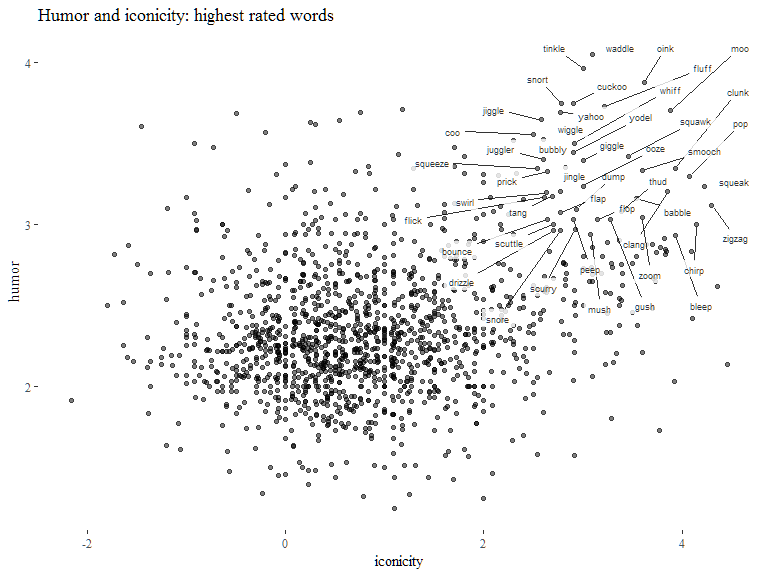
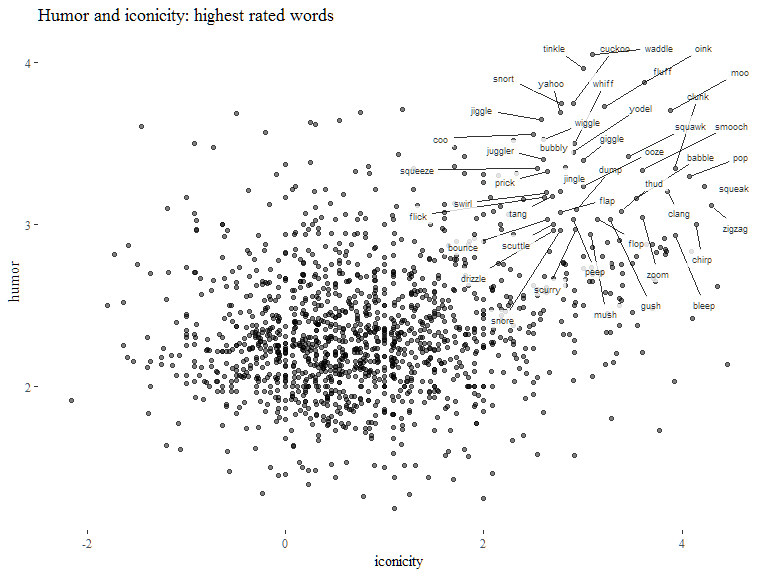
fiddle w/ knitr settings

diff --git a/playful_iconicity.md b/playful_iconicity.md
@@ -13,18 +13,76 @@ If there is indeed a link between iconicity and the subjective funnyness of word
 
 Outliers (words where ratings disagree most) help to discover other features at play. E.g. 'blonde' is in the top 10 percentile of funny words but only in the 2nd percentile of iconicity ratings. Probably related to a genre of jokes. On the other hand, some onomatopoeia are highly iconic but associated with negative rather than with funny events, e.g. 'crash', 'scratch','roar', 'clash', pointing to the importance of valence and arousal more generally.
 
+``` r
+# Clear workspace
+rm(list=ls())
+
+# check for /in/ and /out/ directories (create them if needed)
+add_working_dir <- function(x) { if(file.exists(x)) { cat(x,"dir:",paste0(getwd(),"/",x,"/")) } else { dir.create(paste0(getwd(),"/",x)) 
+  cat("subdirectory",x,"created in",getwd()) } }
+add_working_dir("in")
+add_working_dir("out")
+
+# Packages and useful functions
+list.of.packages <- c("tidyverse","GGally","ggthemes","readxl","ggrepel","lme4","ppcor")
+new.packages <- list.of.packages[!(list.of.packages %in% installed.packages()[,"Package"])]
+if(length(new.packages)>0) install.packages(new.packages)
+lapply(list.of.packages, require, character.only=T)
+rm(list.of.packages,new.packages)
+
+`%notin%` <- function(x,y) !(x %in% y) 
+```
+
 Load data
 =========
 
 Data sources: \* Perry, Lynn K. et al. “Iconicity in the Speech of Children and Adults.” Developmental Science, n/a-n/a. <doi:10.1111/desc.12572>. \* Engelthaler, Tomas, and Thomas T. Hills. 2017. “Humor Norms for 4,997 English Words.” Behavior Research Methods, July, 1–9. <doi:10.3758/s13428-017-0930-6>.
 
+``` r
+iconicity <- read_csv("https://raw.githubusercontent.com/bodowinter/iconicity_acquisition/master/data/iconicity.csv") %>%
+  mutate(POS = SUBTLEX_dom_POS) %>%
+  plyr::rename(c("Word" = "word","Iconicity"="iconicity","OrthoLength"="len_ortho","SUBTLEX_Rawfreq" = "freq_count"))
+
+humor <- read_csv("https://raw.githubusercontent.com/tomasengelthaler/HumorNorms/master/humor_dataset.csv") %>%
+  plyr::rename(c("mean" = "humor"))
+
+df <- merge(iconicity,humor,by="word") %>%
+  drop_na(iconicity,humor,freq_count) %>%
+  mutate(freq_log = log(freq_count))
+```
+
 Combine humor with predicted iconicity ratings from Bill and frequency / POS data from SUBTLEX
+
+``` r
+p.ico <- read_csv("in/ipennl.csv") %>%
+  filter(language=="en") %>%
+  dplyr::select(Word,Concreteness,Iconicity_PREDICTED)
+names(p.ico) <- tolower(names(p.ico))
+
+subtlex <- read_excel(path="in/SUBTLEX-US frequency list with PoS and Zipf information.xlsx") %>%
+  plyr::rename(c("Word" = "word","FREQcount" = "freq_count","Lg10WF" = "freq_log","Dom_PoS_SUBTLEX" = "POS")) %>%
+  dplyr::select(word,freq_log,POS) %>%
+  filter(word %in% p.ico$word)
+
+df_pred <- humor %>%
+  left_join(p.ico) %>%
+  drop_na(humor,iconicity_predicted) %>%
+  left_join(df) %>%
+  dplyr::select(-POS,-freq_log) %>%
+  left_join(subtlex) %>% 
+  drop_na(freq_log,POS) %>%
+  mutate(set = ifelse(is.na(iconicity),"unrated","rated")) # indicate subsets
+```
 
 Plots
 =====
 
 First eyeball data. Iconicity looks a pretty good predictor in addition to frequency, which was the best predictor according to Engelthaler & Hills (2017). Humor shows a positive correlation with iconicity rating, as predicted. The relation is clearest for iconicity ratings &gt;0. My take on this (based on considerations noted elsewhere) is that the negative iconicity ratings do not capture one thing.
 
+``` r
+summary(lm(humor ~ freq_log + iconicity, df))
+```
+
     ## 
     ## Call:
     ## lm(formula = humor ~ freq_log + iconicity, data = df)
@@ -45,12 +103,32 @@ First eyeball data. Iconicity looks a pretty good predictor in addition to frequ
     ## Multiple R-squared:  0.1846, Adjusted R-squared:  0.1835 
     ## F-statistic: 160.3 on 2 and 1416 DF,  p-value: < 2.2e-16
 
-![](out/plots-1.png)![](out/plots-2.png)
+``` r
+ggplot(df,aes(humor,freq_log)) +
+  theme_tufte() + ggtitle("Humor ratings by log frequency") + 
+  geom_point(alpha=0.5) +
+  geom_smooth(method="lm")
+```
+
+![](out/plots-1.png)
+
+``` r
+ggplot(df,aes(humor,iconicity)) +
+  theme_tufte() + ggtitle("Humor ratings by iconicity") + 
+  geom_point(alpha=0.5) +
+  geom_smooth(method="lm")
+```
+
+![](out/plots-2.png)
 
 Let's residualise out `log_freq` so we get a better look at the humor ~ iconicity relation; and conversely, residualise `iconicity` to look at humor ~ frequency.
 
 (Is this at all helpful?)
 
+``` r
+summary(lm(humor ~ freq_log + iconicity,df))
+```
+
     ## 
     ## Call:
     ## lm(formula = humor ~ freq_log + iconicity, data = df)
@@ -71,12 +149,34 @@ Let's residualise out `log_freq` so we get a better look at the humor ~ iconicit
     ## Multiple R-squared:  0.1846, Adjusted R-squared:  0.1835 
     ## F-statistic: 160.3 on 2 and 1416 DF,  p-value: < 2.2e-16
 
-![](out/residualising1-1.png)![](out/residualising1-2.png)
+``` r
+df$residuals <- residuals(lm(humor ~ freq_log,df))
+ggplot(df,aes(humor,residuals)) +
+  theme_tufte() + ggtitle("Humor ratings, frequency residualised out") + 
+  geom_point(shape=16,alpha=0.5) +
+  geom_smooth(method="lm")
+```
+
+![](out/residualising1-1.png)
+
+``` r
+df$residuals <- residuals(lm(humor ~ iconicity,df))
+ggplot(df,aes(humor,residuals)) +
+  theme_tufte() + ggtitle("Humor ratings, iconicity residualised out") + 
+  geom_point(shape=16,alpha=0.5) +
+  geom_smooth(method="lm")
+```
+
+![](out/residualising1-2.png)
 
 Now look at Bill's predicted iconicity ratings. To avoid double-dipping we tease apart words for which the predictions overlap with the ratings (n=1391) and words for which predictions are newly inferred (n=3242) (encoded in `$set`).
 
 Predicted iconicity values correlate with humor ratings even when controlling for frequency. For every point gained in predicted iconicity there's a .21 increase in humor rating.
 
+``` r
+summary(lm(humor ~ freq_log + iconicity_predicted,df_pred))
+```
+
     ## 
     ## Call:
     ## lm(formula = humor ~ freq_log + iconicity_predicted, data = df_pred)
@@ -96,9 +196,21 @@ Predicted iconicity values correlate with humor ratings even when controlling fo
     ## Residual standard error: 0.3849 on 4629 degrees of freedom
     ## Multiple R-squared:  0.1409, Adjusted R-squared:  0.1405 
     ## F-statistic: 379.6 on 2 and 4629 DF,  p-value: < 2.2e-16
+
+``` r
+ggplot(df_pred,aes(iconicity_predicted,humor)) +
+  theme_tufte() + ggtitle("Humor ratings by inferred iconicity ratings") + 
+  geom_point(shape=16,alpha=0.5) +
+  geom_smooth(method="lm") +
+  facet_wrap(~set)
+```
 
 ![](out/iconicity_predicted-1.png) And here too we can residualise out `freq_log` to get a better view of the relation:
 
+``` r
+summary(lm(humor ~ freq_log + iconicity_predicted,df_pred))
+```
+
     ## 
     ## Call:
     ## lm(formula = humor ~ freq_log + iconicity_predicted, data = df_pred)
@@ -118,6 +230,15 @@ Predicted iconicity values correlate with humor ratings even when controlling fo
     ## Residual standard error: 0.3849 on 4629 degrees of freedom
     ## Multiple R-squared:  0.1409, Adjusted R-squared:  0.1405 
     ## F-statistic: 379.6 on 2 and 4629 DF,  p-value: < 2.2e-16
+
+``` r
+df_pred$residuals <- residuals(lm(humor ~ freq_log,df_pred))
+
+ggplot(df_pred,aes(humor,residuals)) +
+  theme_tufte() + ggtitle("Humor ratings by predicted iconicity ratings (frequency residualised out)") +   geom_point(shape=16,alpha=0.5) +
+  geom_smooth(method="lm") +
+  facet_wrap(~ set)
+```
 
 ![](out/residualising2-1.png)
 
@@ -125,6 +246,14 @@ Stats
 =====
 
 LME with orthographic length as a random effect shows that although log frequency is an important predictor of word funnyness, a model including iconicity in addition to log frequency provides a significantly better fit.
+
+``` r
+m0 <- lmer(humor ~ freq_log + (1|len_ortho),data=df)
+m1 <- lmer(humor ~ freq_log + iconicity + (1|len_ortho),data=df)
+m2 <- lmer(humor ~ iconicity + (1|len_ortho),data=df)
+
+m0
+```
 
     ## Linear mixed model fit by REML ['lmerMod']
     ## Formula: humor ~ freq_log + (1 | len_ortho)
@@ -139,6 +268,10 @@ LME with orthographic length as a random effect shows that although log frequenc
     ## (Intercept)     freq_log  
     ##     2.92803     -0.08902
 
+``` r
+m1
+```
+
     ## Linear mixed model fit by REML ['lmerMod']
     ## Formula: humor ~ freq_log + iconicity + (1 | len_ortho)
     ##    Data: df
@@ -152,6 +285,10 @@ LME with orthographic length as a random effect shows that although log frequenc
     ## (Intercept)     freq_log    iconicity  
     ##     2.81278     -0.08007      0.07043
 
+``` r
+anova(m0,m1)
+```
+
     ## Data: df
     ## Models:
     ## m0: humor ~ freq_log + (1 | len_ortho)
@@ -164,11 +301,23 @@ LME with orthographic length as a random effect shows that although log frequenc
 
 Partial correlations show there is 20.6% covariance between humor and iconicity, partialing out log frequency as a mediator. There is -35.7% covariance between humor and frequency, partialing out iconicity as a mediator (the more frequent a word, the less funny). A -9.5% correlation between iconicity and frequency when partialing out humor. (Winter et al. 2017 report a negative correlation between iconicity and frequency.)
 
+``` r
+pcor.test(x=df$humor,y=df$iconicity,z=df$freq_log)
+```
+
     ##    estimate      p.value statistic    n gp  Method
     ## 1 0.2062649 4.335228e-15  7.932275 1419  1 pearson
 
+``` r
+pcor.test(x=df$humor,y=df$freq_log,z=df$iconicity)
+```
+
     ##    estimate      p.value statistic    n gp  Method
     ## 1 -0.355736 1.480235e-43 -14.32319 1419  1 pearson
+
+``` r
+pcor.test(x=df$iconicity,y=df$freq_log,z=df$humor)
+```
 
     ##      estimate      p.value statistic    n gp  Method
     ## 1 -0.09460514 0.0003606165 -3.576009 1419  1 pearson
@@ -180,7 +329,38 @@ Which words are rated as highly funny *and* highly iconic? And what are the most
 
 Let's start by plotting the top ranked words:
 
+``` r
+df <- df %>% 
+  mutate(humor_perc = ntile(humor,10)) %>%
+  mutate(iconicity_perc = ntile(iconicity,10)) %>%
+  mutate(difference = humor_perc - iconicity_perc) %>%
+  mutate(diff_abs = abs(difference)) %>%
+  mutate(diff_rank = humor_perc+iconicity_perc)
+
+ggplot(df,aes(iconicity,humor)) +
+  theme_tufte() + ggtitle("Humor and iconicity: highest rated words") +
+  geom_point(alpha=0.5,na.rm=T) +
+  geom_label_repel(
+    data=subset(df,diff_rank == 20),
+    aes(label=word),
+    size=2.5,
+    alpha=0.8,
+    label.size=NA,
+    label.r=unit(0,"lines"),
+    box.padding=unit(0.35, "lines"),
+    point.padding=unit(0.3,"lines")
+  )
+```
+
 ![](out/similarity-1.png)
+
+``` r
+df %>%
+  filter(diff_rank > 19) %>%
+  arrange(desc(humor)) %>%
+  dplyr::select(word,humor,iconicity) %>%
+  slice(1:20)
+```
 
     ## # A tibble: 20 x 3
     ##       word    humor iconicity
@@ -210,9 +390,38 @@ Many highly iconic words are also rated as highly funny. The power of iconic wor
 
 At the same time, there are also quite some cases where the two ratings don't add up:
 
+``` r
+# difference sd
+diffabs.sd <- sd(df$diff_abs,na.rm=T)
+
+ggplot(df,aes(iconicity,humor)) +
+  theme_tufte() + ggtitle("Humor and iconicity: maximally different words") +
+  geom_point(alpha=0.5,na.rm=T) +
+  geom_label_repel(
+    data=subset(df,diff_abs > 3.5*diffabs.sd),
+    # alpha=0.5,  # (affects not just the bounding box)
+    aes(label=word),
+    size=2.5,
+    alpha=0.8,
+    label.size=NA,
+    label.r=unit(0,"lines"),
+    box.padding=unit(0.35, "lines"),
+    point.padding=unit(0.3,"lines")
+  )
+```
+
 ![](out/difference-1.png)
 
 Among funny words not rated as iconic, there are lots of animals (dingo, panda, lobster, giraffe), some taboo words (hoe, penis), and joke-related words like pun and blonde.
+
+``` r
+# rated as funny but not iconic
+df %>% 
+  filter(humor_perc > 9, iconicity_perc < 4) %>%
+  arrange(desc(humor)) %>%
+  dplyr::select(word,humor,iconicity) %>%
+  slice(1:20)
+```
 
     ## # A tibble: 20 x 3
     ##        word    humor   iconicity
@@ -239,6 +448,15 @@ Among funny words not rated as iconic, there are lots of animals (dingo, panda, 
     ## 20   walrus 3.000000  0.18181818
 
 Something related to valence and/or arousal plays the most important role in explaining why some highly iconic words are not rated as funny. Negatively valenced words like 'roar', 'crash', 'clash' and 'scream' may be highly iconic but they have no positive or humorous connotations. So the image-evoking potency of iconic words is not necessary nor sufficient to explain iconicity ratings.
+
+``` r
+# rated as iconic but not funny
+df %>% 
+  filter(iconicity_perc > 9, humor_perc < 4) %>%
+  arrange(desc(iconicity)) %>%
+  dplyr::select(word,humor,iconicity) %>%
+  slice(1:20)
+```
 
     ## # A tibble: 14 x 3
     ##        word    humor iconicity
